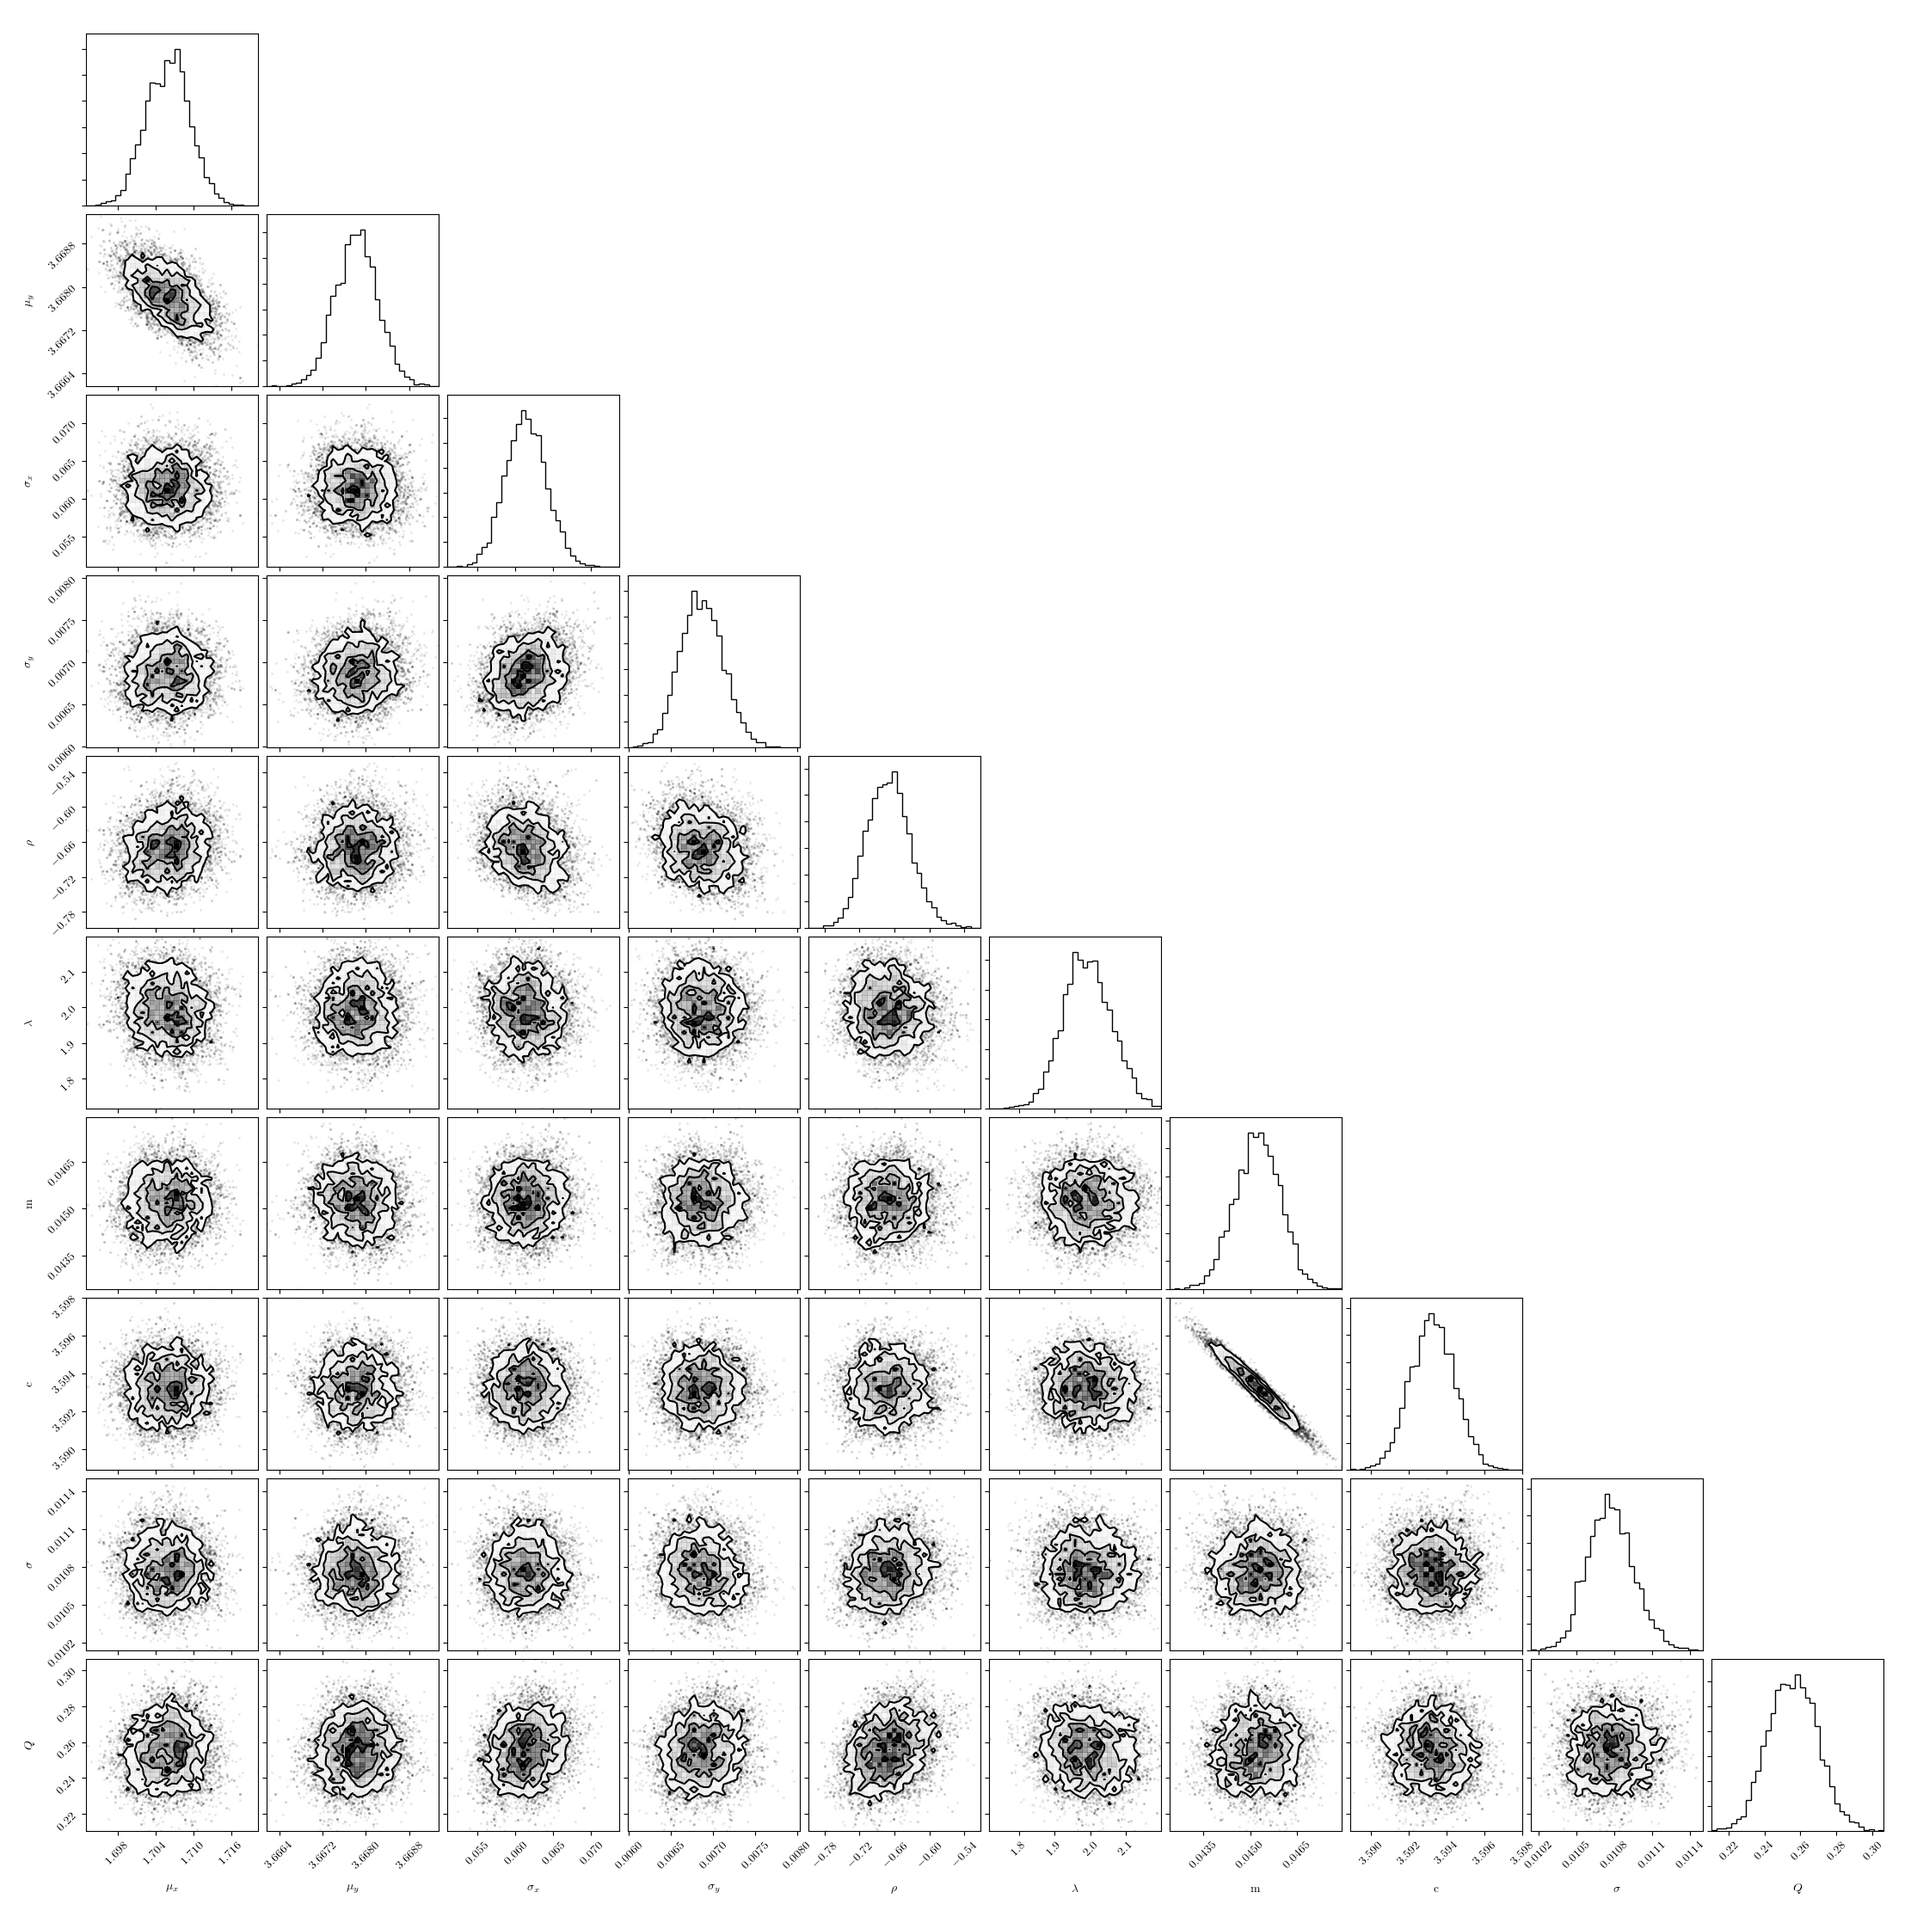
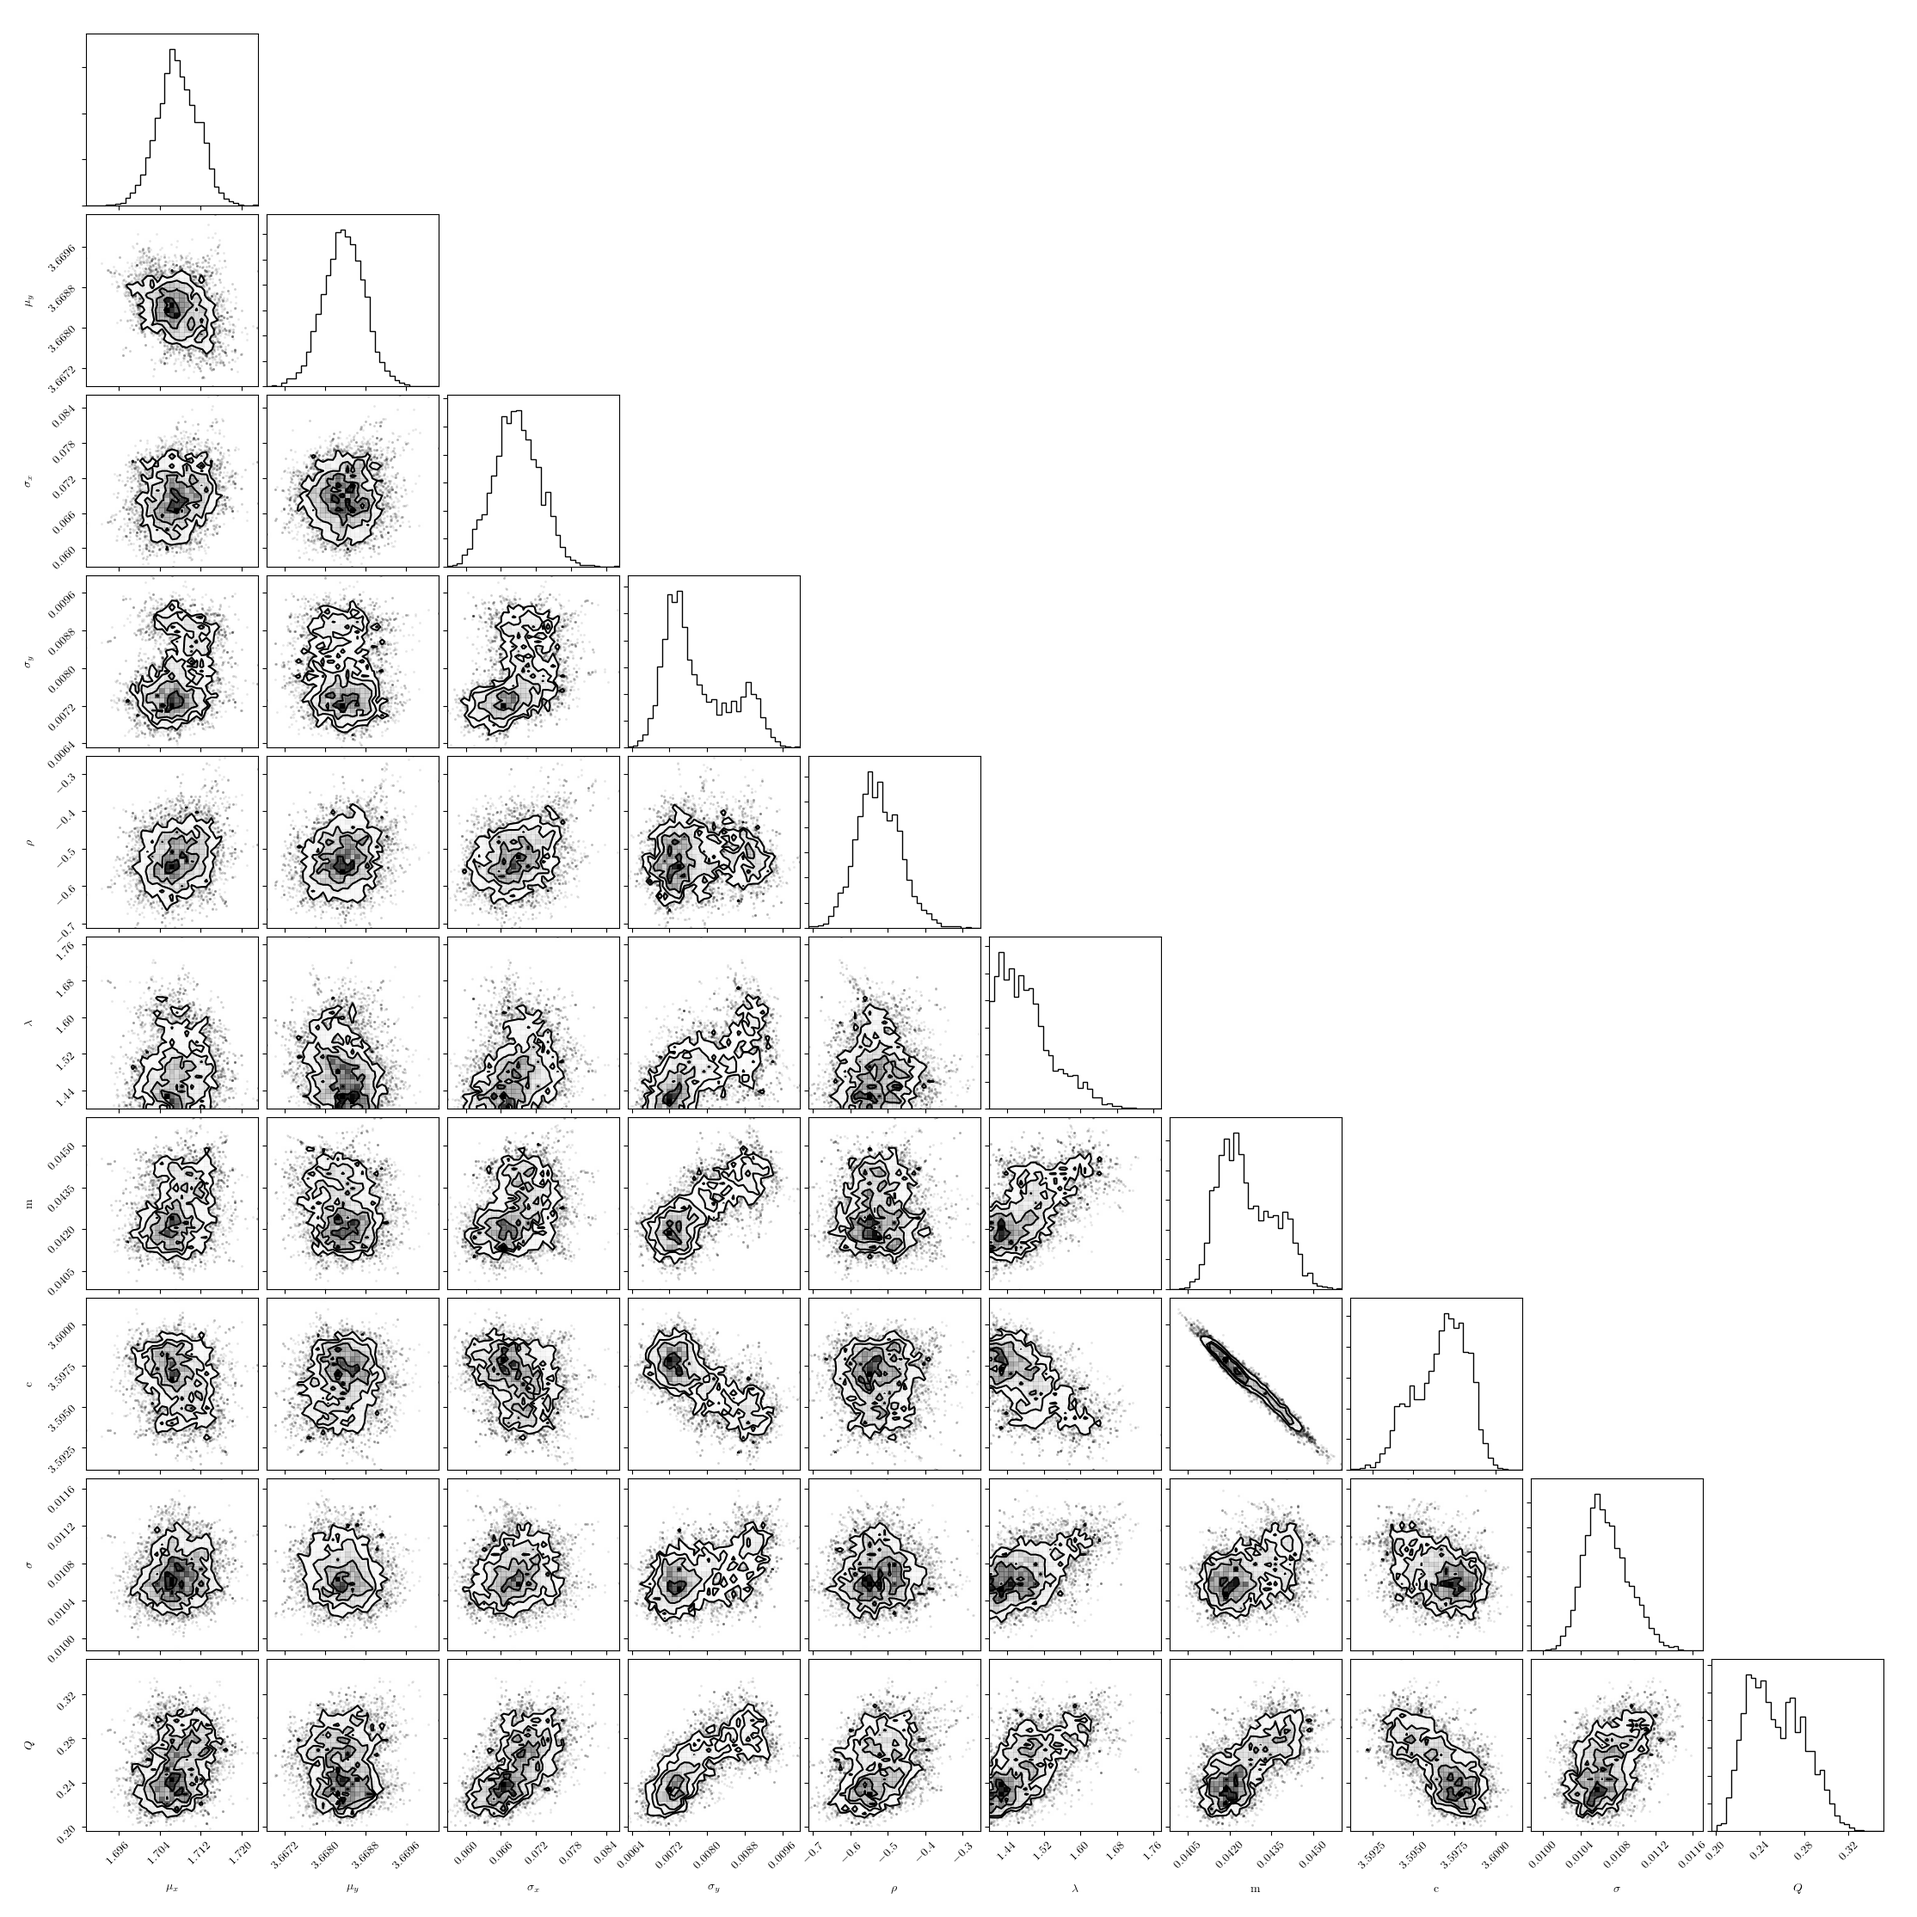
Added a simple top hat model, now functional.

diff --git a/RGBb_mixmod.py b/RGBb_mixmod.py
@@ -144,7 +144,7 @@ if __name__ == '__main__':
     flo = np.arange(-0.5,0.3,0.2)
     fhi = np.arange(-0.3,0.5,0.2)
 
-    x, y, df = get_values('rgb')
+    x, y, df = get_values('trilegal')
 
 ####---SETTING UP DATA
 
@@ -196,6 +196,9 @@ if __name__ == '__main__':
     #Making first guess for mu_y
     lteffguess = Y.ravel()[np.argmax(d)]
 
+    '''HARD CODING IN SOME GUESS HERE FOR THE TRILEGAL SIM'''
+    lnuguess = 1.5
+
 
 ####---SETTING UP MCMC
     labels_mc = [r"$\mu_x$", r"$\mu_y$", r"$\sigma_x$", r"$\sigma_y$", r"$\rho$",\
@@ -209,7 +212,6 @@ if __name__ == '__main__':
                 (1.4, 2.2), (fn[0]*0.8, fn[0]*1.2), (fn[1]*0.8, fn[1]*1.2),\
                 (np.std(y-fy)*0.5, np.std(y-fy)*1.5),\
                 (0,1)]
-
 ####---CHECKING MODELS BEFORE RUN
     #Getting meshgrid version of bivariate model
     ModeLLs = cLLModels.LLModels(X, Y, labels_mc)
@@ -225,6 +227,7 @@ if __name__ == '__main__':
     fig.savefig('Output/visual_RGB.png')
     plt.show()
     plt.close('all')
+    sys.exit()
 
 ####---RUNNING MCMC
     ModeLLs = cLLModels.LLModels(x, y, labels_mc)
@@ -278,7 +281,7 @@ if __name__ == '__main__':
 
     col = ax.scatter(x, y, c=fg_pp, s=5, cmap='viridis')
     ax.plot(x, resy, c='r',linestyle='--',label='Line Fit')
-    fig.colorbar(col, ax=yax, label = 'RGBb membership posterior probability')
+    fig.colorbar(col, ax=ax, label = 'RGBb membership posterior probability')
 
     sax.set_ylabel(r"log$_{10}(T_{\rm{eff}})$")
     xax.set_xlabel(r"log$_{10}(\nu_{\rm{max}})$")

diff --git a/cLLModels.py b/cLLModels.py
@@ -29,6 +29,8 @@ class LLModels:
         except: pass
         try: self.locrho = np.where(np.array(_labels)==r"$\rho$")[0][0]
         except: pass
+        try: self.locz = np.where(np.array(_labels)==r"$z$")[0][0]
+        except: pass
 
 
     def gauss_x(self, p):
@@ -47,6 +49,15 @@ class LLModels:
         #Calculating the likelihood in the X direction
         A = lambd * (np.exp(lambd*self.x.max()) - np.exp(lambd*self.x.min()))**-1
         lnLx = np.log(A) + lambd*self.x
+        return lnLx
+
+    def tophat_x(self, p):
+        '''A simple top hat probability function normalised in x space'''
+        z = p[self.locz]
+
+        #Calculating the likelihood in the X direction with appropriate normalization
+        A = (z*self.x.max() - z*self.x.min())**-1
+        lnLx = np.log(A * np.ones(self.x.shape)*z)
         return lnLx
 
     def gauss_line_y(self, p):

diff --git a/workbench.py b/workbench.py
@@ -44,6 +44,29 @@ def get_values(US):
 
 
 if __name__ == "__main__":
+    files = glob.glob('data/trilegal_keplerfov.txt')[0]
+    df = pd.read_table(files, sep=',', header=0, error_bad_lines=False)
+
+    df['logT'] = np.log10(df.teff)
+    df['lognumax'] = np.log10(df.numax)
+
+    df = df.sort_values(by=['numax'])
+
+    x = df.lognumax
+    y = df.logT
+
+    ModeLLs = cLLModels.LLModels(x, y, [r"$z$"])
+    lnbg = np.exp(ModeLLs.tophat_x([5000000]))
+
+
+    bins = int(np.sqrt(len(x)))
+    fig, ax = plt.subplots()
+    ax.hist(x,bins=bins,histtype='step')
+    ax.scatter(x,lnbg,s=5,c='orange',alpha=.5)
+    plt.show()
+
+    sys.exit()
+
     plt.close('all')
     x, y, df = get_values('RGB')
     size = 1000
